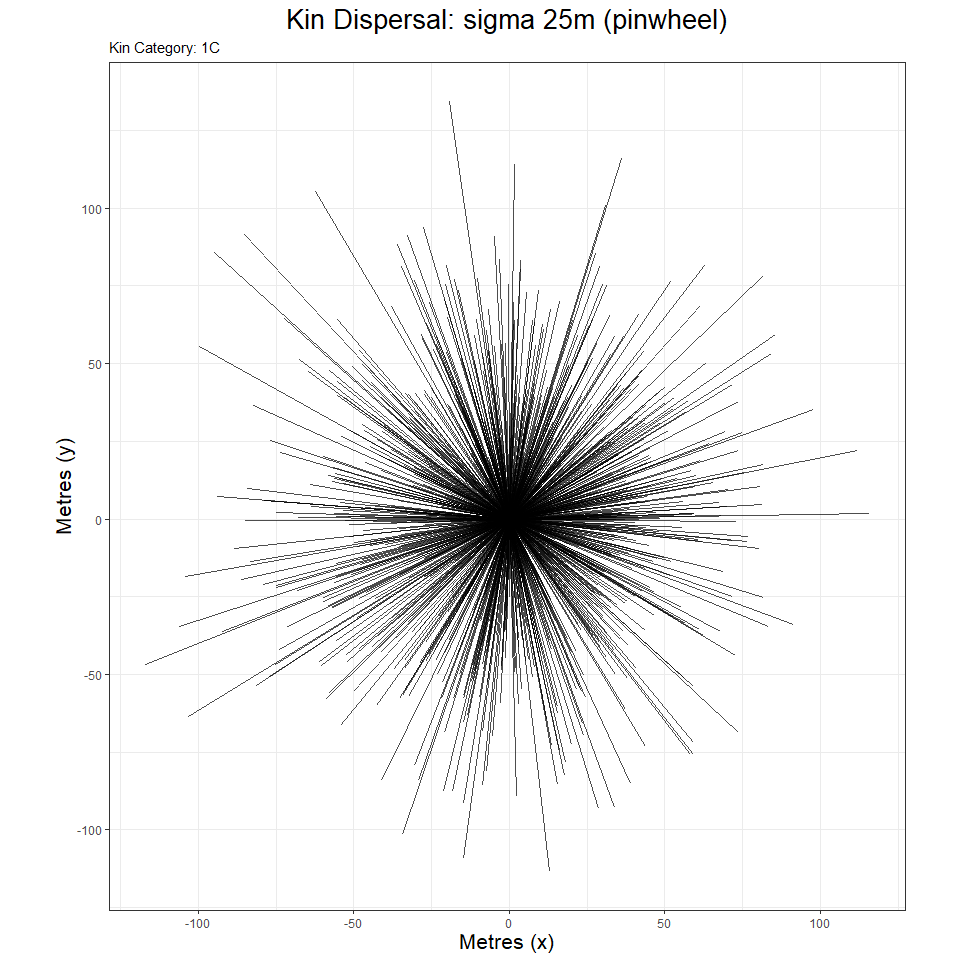
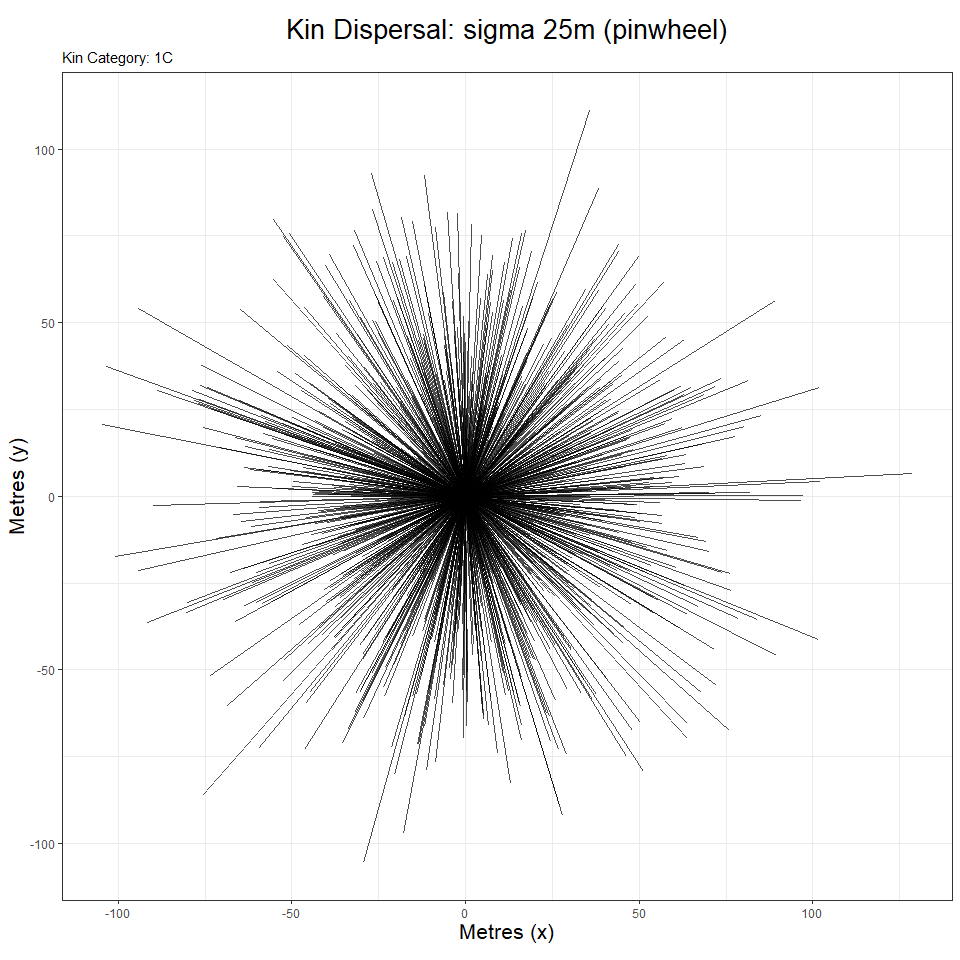
update vignettes

diff --git a/README.md b/README.md
@@ -151,8 +151,7 @@ functionality in a user-friendly interface.
 # 2. Installation
 
 You can install the released version of kindisperse from
-[CRAN](https://CRAN.R-project.org) with: (in future. this doesn’t
-currently exist)
+[CRAN](https://CRAN.R-project.org) with:
 
 ``` r
 install.packages("kindisperse")
@@ -315,13 +314,13 @@ simulate_kindist_simple(nsims = 5, sigma = 100, method = "Gaussian", kinship = "
 #> 
 #> tab
 #> # A tibble: 5 x 8
-#>   id1   id2   kinship distance    x1     y1     x2     y2
-#>   <chr> <chr> <chr>      <dbl> <dbl>  <dbl>  <dbl>  <dbl>
-#> 1 1a    1b    PO          51.0 43.1  50.9     20.5   5.20
-#> 2 2a    2b    PO         140.   8.84 89.4    -81.8 -17.7 
-#> 3 3a    3b    PO         155.  32.2  68.0   -120.   95.5 
-#> 4 4a    4b    PO         199.  12.0  29.9   -182.   74.6 
-#> 5 5a    5b    PO         100.  35.2   0.874   71.8  94.4 
+#>   id1   id2   kinship distance    x1    y1    x2     y2
+#>   <chr> <chr> <chr>      <dbl> <dbl> <dbl> <dbl>  <dbl>
+#> 1 1a    1b    PO          80.0  63.0  85.7  30.0   12.9
+#> 2 2a    2b    PO         317.   93.0  13.6 161.  -296. 
+#> 3 3a    3b    PO         105.   73.9  57.9  87.8  162. 
+#> 4 4a    4b    PO          30.1  79.7  49.6  75.8   79.4
+#> 5 5a    5b    PO         192.   22.3  84.1 214.    88.8
 #> -----------------------------------
 ```
 
@@ -367,13 +366,13 @@ simulate_kindist_composite(nsims = 5, initsigma = 50, breedsigma = 30, gravsigma
 #> 
 #> tab
 #> # A tibble: 5 x 8
-#>   id1   id2   kinship distance     x1    y1    x2     y2
-#>   <chr> <chr> <chr>      <dbl>  <dbl> <dbl> <dbl>  <dbl>
-#> 1 1a    1b    H1C         406. -78.7   89.1  323.   25.6
-#> 2 2a    2b    H1C         116. 153.    60.2  148.  176. 
-#> 3 3a    3b    H1C         133.  83.8  -59.3  175. -156. 
-#> 4 4a    4b    H1C         354.  25.7   22.1 -165. -276. 
-#> 5 5a    5b    H1C         167.   8.99 150.   176.  141. 
+#>   id1   id2   kinship distance     x1     y1    x2     y2
+#>   <chr> <chr> <chr>      <dbl>  <dbl>  <dbl> <dbl>  <dbl>
+#> 1 1a    1b    H1C        158.   58.7   101.   48.1  -56.7
+#> 2 2a    2b    H1C        339.  325.   -119.  124.   154. 
+#> 3 3a    3b    H1C        216.   81.3   250.  165.    50.7
+#> 4 4a    4b    H1C         90.8  19.8  -111.  101.  -151. 
+#> 5 5a    5b    H1C        352.   -6.27   43.3 343.    87.3
 #> -----------------------------------
 ```
 
@@ -422,13 +421,13 @@ simulate_kindist_custom(nsims = 5, model = dmodel, kinship = "PO")
 #> 
 #> tab
 #> # A tibble: 5 x 8
-#>   id1   id2   kinship distance    x1    y1     x2     y2
-#>   <chr> <chr> <chr>      <dbl> <dbl> <dbl>  <dbl>  <dbl>
-#> 1 1a    1b    PO          76.8 91.5   83.0  15.3    93.2
-#> 2 2a    2b    PO          45.0 51.0   69.8   6.59   62.2
-#> 3 3a    3b    PO          94.2 88.3   70.4 106.    -22.2
-#> 4 4a    4b    PO         131.  92.9   62.7 -21.8   125. 
-#> 5 5a    5b    PO         168.   6.92  17.5 111.   -114. 
+#>   id1   id2   kinship distance    x1    y1      x2     y2
+#>   <chr> <chr> <chr>      <dbl> <dbl> <dbl>   <dbl>  <dbl>
+#> 1 1a    1b    PO          43.8 61.1   94.9  104.   104.  
+#> 2 2a    2b    PO         251.  71.6   34.6 -171.   -31.6 
+#> 3 3a    3b    PO         108.  89.9   52.4   -7.00   4.80
+#> 4 4a    4b    PO         120.   9.22  37.3   12.7  -83.1 
+#> 5 5a    5b    PO          37.9 84.6   90.3  109.   119.  
 #> -----------------------------------
 ```
 
@@ -470,18 +469,18 @@ sample_kindist(compsim, upper = 1000, lower = 200, spacing = 50, n = 25)
 #> 
 #> tab
 #> # A tibble: 25 x 8
-#>    id1    id2    kinship distance     x1     y1     x2     y2
-#>    <chr>  <chr>  <chr>      <dbl>  <dbl>  <dbl>  <dbl>  <dbl>
-#>  1 39474a 39474b H2C          475   66.9 -101.   541.  -117. 
-#>  2 44245a 44245b H2C          375  -29.2 -242.    85.8   98.7
-#>  3 1688a  1688b  H2C          675  504.   356.   -67.6   19.7
-#>  4 70821a 70821b H2C          375 -422.   -36.1 -106.   123. 
-#>  5 68877a 68877b H2C          375  206.  -122.    35.2  194. 
-#>  6 46338a 46338b H2C          325 -180.    76.4   83.3  -99.2
-#>  7 97001a 97001b H2C          225  317.   120.   202.   -51.1
-#>  8 31882a 31882b H2C          275  -24.9  -18.8  -30.1  261. 
-#>  9 39623a 39623b H2C          525 -303.   188.   209.   233. 
-#> 10 12789a 12789b H2C          575  380.   -21.3 -205.   -12.9
+#>    id1    id2    kinship distance      x1     y1     x2     y2
+#>    <chr>  <chr>  <chr>      <dbl>   <dbl>  <dbl>  <dbl>  <dbl>
+#>  1 84847a 84847b H2C          425    6.10  221.  -384.    23.0
+#>  2 82579a 82579b H2C          275 -206.    -43.0   74.4   31.6
+#>  3 7909a  7909b  H2C          675  256.    337.  -186.  -156. 
+#>  4 40146a 40146b H2C          475 -137.    261.   123.  -111. 
+#>  5 37722a 37722b H2C          425  320.    -39.8  164.   338. 
+#>  6 87502a 87502b H2C          325  171.    178.  -140.   106. 
+#>  7 41499a 41499b H2C          325   85.4   -55.2  119.   244. 
+#>  8 14452a 14452b H2C          325 -170.    238.   150.   115. 
+#>  9 56766a 56766b H2C          325   81.0  -231.   367.  -339. 
+#> 10 64761a 64761b H2C          275   -5.57  230.   257.   273. 
 #> # ... with 15 more rows
 #> -----------------------------------
 ```
@@ -577,13 +576,13 @@ of three draws from the PO distribution, and thus would take
 ``` r
 paroff <- simulate_kindist_simple(nsims = 1000, sigma = 75, kinship = "PO")
 axials(paroff)
-#> [1] 75.40432
+#> [1] 74.70879
 ```
 
 ``` r
 fullsibs <- simulate_kindist_composite(nsims = 10000, ovisigma = 25, kinship = "FS")
 axials(fullsibs, composite = 2)
-#> [1] 24.98305
+#> [1] 25.14156
 ```
 
 Various auxillary functions exist to further manipulate axial distances
@@ -666,8 +665,8 @@ fullcous <- simulate_kindist_composite(nsims = 75, initsigma = init, breedsigma 
 # calculate PO axial sigma C.I. 
 
 axpermute_standard(fullcous, fullsibs)
-#>     2.5%     mean    97.5% 
-#> 76.31434 85.58158 94.92273
+#>      2.5%      mean     97.5% 
+#>  86.77753  97.92892 108.50328
 ```
 
 As we can see, the C.I. neatly brackets the actual axial value, though
@@ -697,18 +696,18 @@ cousins
 #> 
 #> tab
 #> # A tibble: 150 x 9
-#>    id1   id2   kinship distance     x1    y1     x2     y2 lifestage
-#>    <chr> <chr> <chr>      <dbl>  <dbl> <dbl>  <dbl>  <dbl> <chr>    
-#>  1 1a    1b    UN          87.3  186.   87.9  104.  118.   immature 
-#>  2 2a    2b    UN         129.   -48.8  60.1  -27.6 -67.4  immature 
-#>  3 3a    3b    UN         217.   120.  213.   -61.8  94.8  immature 
-#>  4 4a    4b    UN         121.   132.   34.4   12.7  51.2  immature 
-#>  5 5a    5b    UN         179.   -89.4  57.3   86.6  91.1  immature 
-#>  6 6a    6b    UN          30.0  -57.2  57.8  -72.0  31.7  immature 
-#>  7 7a    7b    UN         194.   227.  -28.7   44.9  39.9  immature 
-#>  8 8a    8b    UN         176.   253.  148.    79.3 180.   immature 
-#>  9 9a    9b    UN         307.   142.  -95.2 -149.    4.61 immature 
-#> 10 10a   10b   UN         200.  -182.   74.1   12.4  26.6  immature 
+#>    id1   id2   kinship distance     x1     y1      x2     y2 lifestage
+#>    <chr> <chr> <chr>      <dbl>  <dbl>  <dbl>   <dbl>  <dbl> <chr>    
+#>  1 1a    1b    UN         323.  -180.    59.6  140.     97.4 immature 
+#>  2 2a    2b    UN         248.    13.4   10.4  260.     30.5 immature 
+#>  3 3a    3b    UN         101.    97.7  237.     6.08  193.  immature 
+#>  4 4a    4b    UN         212.    38.4   44.3  -79.6   220.  immature 
+#>  5 5a    5b    UN          79.2  -39.3 -115.    27.2   -72.3 immature 
+#>  6 6a    6b    UN         192.   -10.4  -29.2 -173.     73.9 immature 
+#>  7 7a    7b    UN         156.   -30.0   12.4  -15.0   168.  immature 
+#>  8 8a    8b    UN          46.1   26.5   67.1  -14.9    87.5 immature 
+#>  9 9a    9b    UN          45.6  -28.1 -126.    15.1  -140.  immature 
+#> 10 10a   10b   UN         188.   248.   190.    59.6   200.  immature 
 #> # ... with 140 more rows
 #> -------------------------------
 ```
@@ -723,8 +722,8 @@ missing category data:
 # bcomp allows supply of distribution to composite with bvect (this is done to match 
 # the cousin mixture in phase)
 axpermute_standard(avect = cousins, acat = "1C", amix = TRUE, amixcat = "H1C", bvect = fullsibs, bcomp = TRUE, bcompvect = halfsibs)
-#>     2.5%     mean    97.5% 
-#> 70.99072 83.02151 93.23848
+#>      2.5%      mean     97.5% 
+#>  83.28070  95.25667 107.42065
 ```
 
 This estimate is a lot more convoluted, and not as ‘spot on’- but the
@@ -897,18 +896,18 @@ ant_po
 #> 
 #> tab
 #> # A tibble: 10,000 x 8
-#>    id1   id2   kinship distance    x1    y1     x2    y2
-#>    <chr> <chr> <chr>      <dbl> <dbl> <dbl>  <dbl> <dbl>
-#>  1 1a    1b    PO         220.  11.6  89.8  -200.   29.4
-#>  2 2a    2b    PO         174.  95.8   5.84  -76.7  27.6
-#>  3 3a    3b    PO          68.7 29.7  44.9    91.8  74.1
-#>  4 4a    4b    PO          63.1 90.8  92.4   125.  145. 
-#>  5 5a    5b    PO         140.  85.1  48.1    91.7 -91.9
-#>  6 6a    6b    PO          97.8 86.6  92.4   183.  110. 
-#>  7 7a    7b    PO          64.7 12.8  89.6   -44.4  59.4
-#>  8 8a    8b    PO         124.   5.90 93.4   114.  154. 
-#>  9 9a    9b    PO          67.2 57.9  59.5    18.4 114. 
-#> 10 10a   10b   PO         159.  99.6  81.2    77.2 -76.6
+#>    id1   id2   kinship distance    x1    y1    x2     y2
+#>    <chr> <chr> <chr>      <dbl> <dbl> <dbl> <dbl>  <dbl>
+#>  1 1a    1b    PO         162.  73.8  76.5  227.    23.5
+#>  2 2a    2b    PO         101.  96.4  85.9  113.   -13.4
+#>  3 3a    3b    PO         227.  82.5  69.8  174.  -138. 
+#>  4 4a    4b    PO          72.9 46.1  31.2  -25.5   17.0
+#>  5 5a    5b    PO         256.  16.7   3.07 178.   202. 
+#>  6 6a    6b    PO          27.2 12.2   9.97  37.8   19.3
+#>  7 7a    7b    PO          19.6 31.9  45.5   34.6   26.1
+#>  8 8a    8b    PO         182.  81.3  28.2   65.7 -153. 
+#>  9 9a    9b    PO         187.  14.3  51.1  101.  -114. 
+#> 10 10a   10b   PO         203.   8.69 10.5  -16.7  212. 
 #> # ... with 9,990 more rows
 #> -----------------------------------
 ```
@@ -916,7 +915,7 @@ ant_po
 Now we’ll use the `axials()` function to characterise our ‘default’
 dispersal for the model:
 
-`axials(ant_po)`: 118.3931736
+`axials(ant_po)`: 117.7047681
 
 The value is around 117 the ‘expected’ value of PO we should get back
 from more complex estimation processes.
@@ -931,7 +930,7 @@ ant_fs <- simulate_kindist_custom(nsims = 10000, model = antechinus_model, kinsh
 ant_1c <- simulate_kindist_custom(nsims = 10000, model = antechinus_model, kinship = "1C")
 
 axials_standard(ant_1c, ant_fs) # larger dispersal category goes first. 
-#> [1] 117.8872
+#> [1] 117.1044
 ```
 
 The FS/1C strategy has been validated theoretically - but an important
@@ -1092,18 +1091,18 @@ ant_1c_juv
 #> 
 #> tab
 #> # A tibble: 100,000 x 8
-#>    id1   id2   kinship distance    x1     y1      x2     y2
-#>    <chr> <chr> <chr>      <dbl> <dbl>  <dbl>   <dbl>  <dbl>
-#>  1 1a    1b    1C         141.   103.  167.   243.    179. 
-#>  2 2a    2b    1C         348.   143. -177.  -142.     22.8
-#>  3 3a    3b    1C          41.0  184.   93.3  224.     85.7
-#>  4 4a    4b    1C         156.   263.   40.6  230.   -112. 
-#>  5 5a    5b    1C         341.   256.  -12.0  -67.8  -119. 
-#>  6 6a    6b    1C         155.   148.  397.   248.    278. 
-#>  7 7a    7b    1C         225.   103.  169.   -59.6    14.5
-#>  8 8a    8b    1C         203.   165.  -69.0  272.    104. 
-#>  9 9a    9b    1C         381.  -314. -104.    56.2   -16.3
-#> 10 10a   10b   1C         171.   161.  125.    -3.95   78.7
+#>    id1   id2   kinship distance      x1     y1     x2      y2
+#>    <chr> <chr> <chr>      <dbl>   <dbl>  <dbl>  <dbl>   <dbl>
+#>  1 1a    1b    1C         379.   121.    182.   116.  -196.  
+#>  2 2a    2b    1C         121.   -29.4   -74.6 -119.     7.23
+#>  3 3a    3b    1C          65.3  -20.1    61.4  -32.7   -2.57
+#>  4 4a    4b    1C         167.  -140.     31.4  -23.5  -88.3 
+#>  5 5a    5b    1C         125.   253.    -81.6  131.   -51.0 
+#>  6 6a    6b    1C         112.   -34.6   -26.4   55.0   40.9 
+#>  7 7a    7b    1C         106.    -2.49   50.4  -85.2  -15.2 
+#>  8 8a    8b    1C         283.   -44.7   155.  -160.  -103.  
+#>  9 9a    9b    1C         551.  -105.   -297.   344.    21.8 
+#> 10 10a   10b   1C         250.    12.5   286.   -30.5   39.7 
 #> # ... with 99,990 more rows
 #> -----------------------------------
 ```
@@ -1129,16 +1128,16 @@ ant_fs_juv
 #> # A tibble: 100,000 x 8
 #>    id1   id2   kinship distance    x1    y1    x2    y2
 #>    <chr> <chr> <chr>      <dbl> <dbl> <dbl> <dbl> <dbl>
-#>  1 1a    1b    FS             0  8.65  6.17  8.65  6.17
-#>  2 2a    2b    FS             0 20.0  89.8  20.0  89.8 
-#>  3 3a    3b    FS             0 69.4  80.9  69.4  80.9 
-#>  4 4a    4b    FS             0 68.6   9.47 68.6   9.47
-#>  5 5a    5b    FS             0 33.0  51.1  33.0  51.1 
-#>  6 6a    6b    FS             0 27.8  96.8  27.8  96.8 
-#>  7 7a    7b    FS             0 86.2  91.7  86.2  91.7 
-#>  8 8a    8b    FS             0  7.79 22.7   7.79 22.7 
-#>  9 9a    9b    FS             0 99.6  79.5  99.6  79.5 
-#> 10 10a   10b   FS             0 92.4  45.4  92.4  45.4 
+#>  1 1a    1b    FS             0  94.1 57.5   94.1 57.5 
+#>  2 2a    2b    FS             0  30.1 98.9   30.1 98.9 
+#>  3 3a    3b    FS             0  39.9 78.4   39.9 78.4 
+#>  4 4a    4b    FS             0  15.2 28.7   15.2 28.7 
+#>  5 5a    5b    FS             0  95.6 42.9   95.6 42.9 
+#>  6 6a    6b    FS             0  67.7 99.4   67.7 99.4 
+#>  7 7a    7b    FS             0  14.7 47.1   14.7 47.1 
+#>  8 8a    8b    FS             0  17.7  8.22  17.7  8.22
+#>  9 9a    9b    FS             0  58.8 23.4   58.8 23.4 
+#> 10 10a   10b   FS             0  68.6 62.9   68.6 62.9 
 #> # ... with 99,990 more rows
 #> -----------------------------------
 ```
@@ -1155,7 +1154,7 @@ they have not dispersed at all, so will not confound the estimate)
 ``` r
 axpermute_standard(ant_1c_juv, ant_fs_juv, nsamp = 100, override = TRUE)
 #>     2.5%     mean    97.5% 
-#> 101.4440 117.7311 136.2437
+#> 100.8309 116.8533 132.9883
 ```
 
 This is excellent so far. Mean dispersal is still around 117, so
@@ -1181,7 +1180,7 @@ ant_1c_juv %>% sample_kindist(dims = 100, n = 1000) %>% axpermute_standard(ant_f
 #> Down-sampling to 1000 kin pairs
 #> 1000 kin pairs remaining.
 #>     2.5%     mean    97.5% 
-#> 25.24243 27.64149 29.96157
+#> 24.71627 27.00528 29.18525
 ```
 
 A 100x100 meter sampling area is woefully inadequate (estimating the
@@ -1194,7 +1193,7 @@ ant_1c_juv %>% sample_kindist(dims = 1000, n = 1000) %>% axpermute_standard(ant_
 #> Down-sampling to 1000 kin pairs
 #> 1000 kin pairs remaining.
 #>      2.5%      mean     97.5% 
-#>  90.78447 102.29387 114.65007
+#>  90.27052 101.99645 114.67305
 ```
 
 We are doing better here: with an average of \~100m. But we’re still 15%
@@ -1207,7 +1206,7 @@ ant_1c_juv %>% sample_kindist(dims = 2000, n = 1000) %>% axpermute_standard(ant_
 #> Down-sampling to 1000 kin pairs
 #> 1000 kin pairs remaining.
 #>      2.5%      mean     97.5% 
-#>  94.51401 109.26972 123.36621
+#>  91.93806 107.00063 122.10058
 ```
 
 This estimate is acceptable, with a mean only a few meters short, & the
